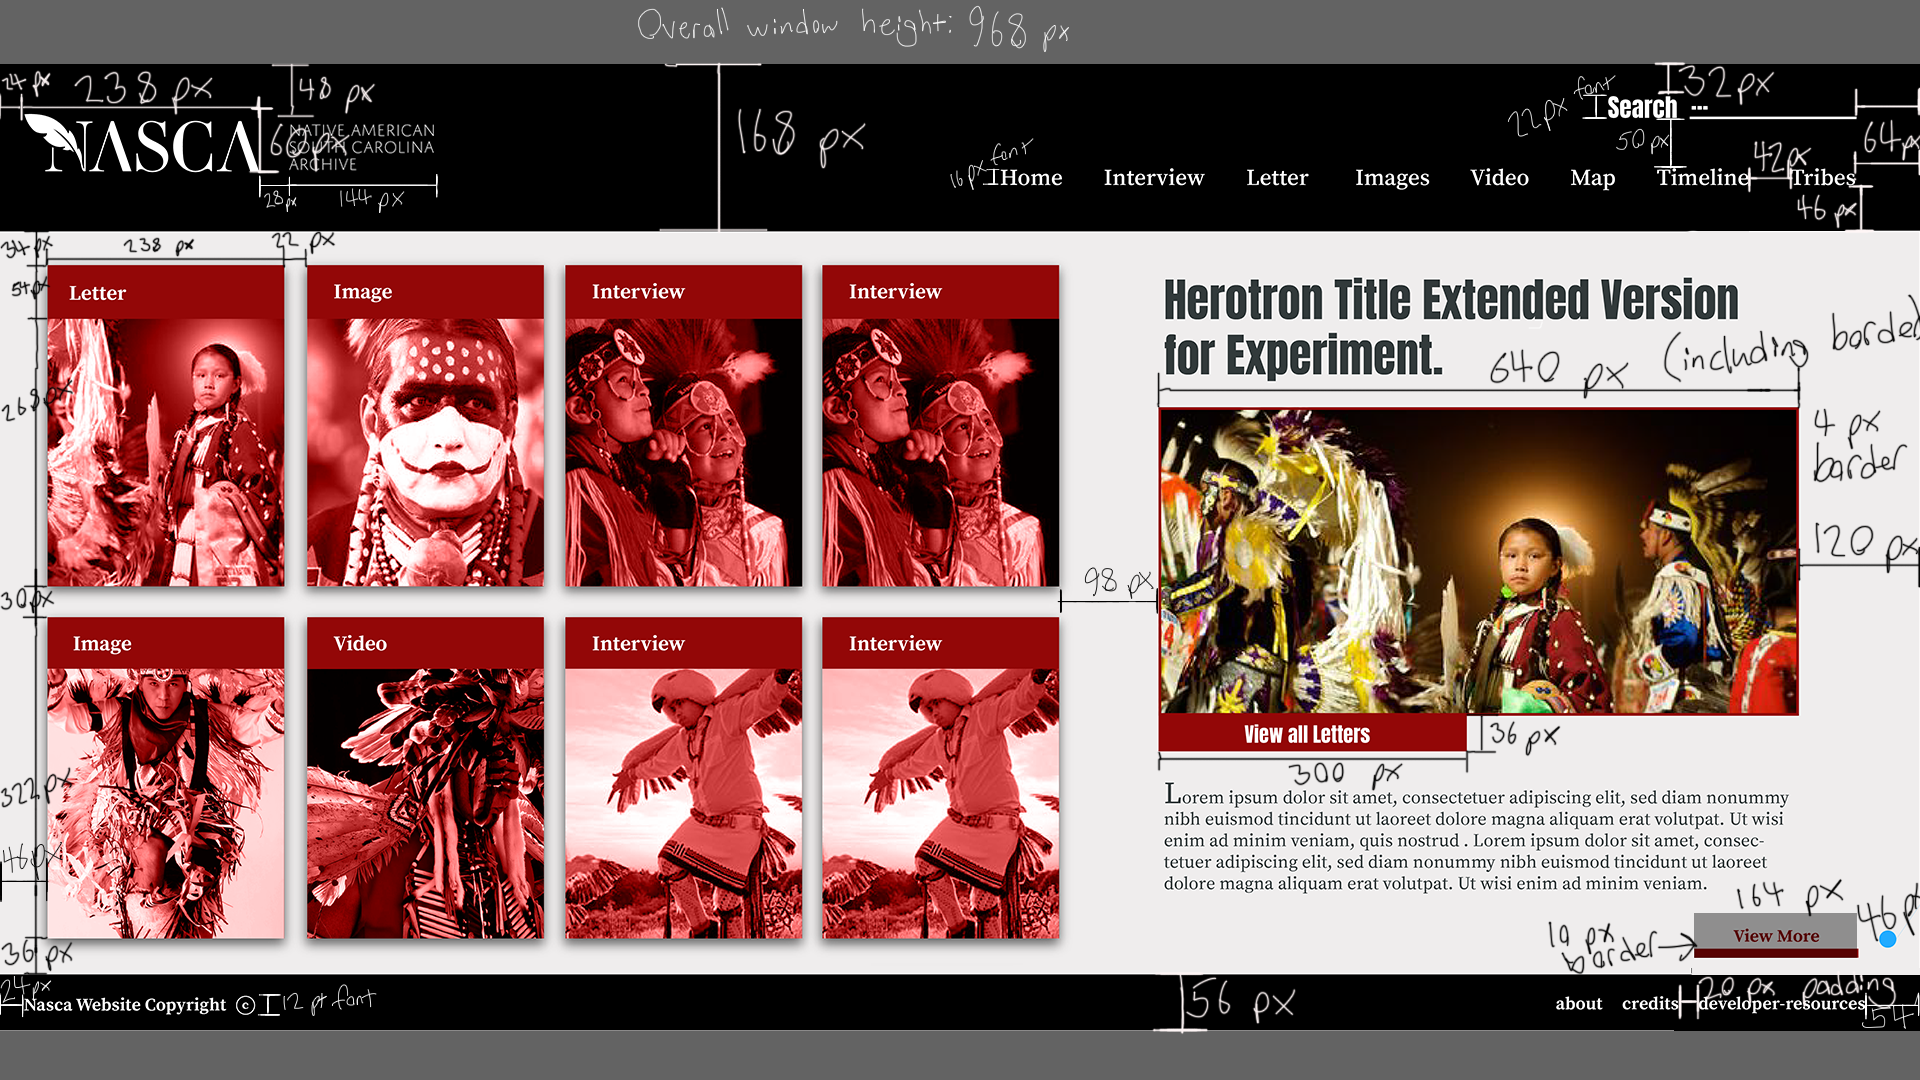
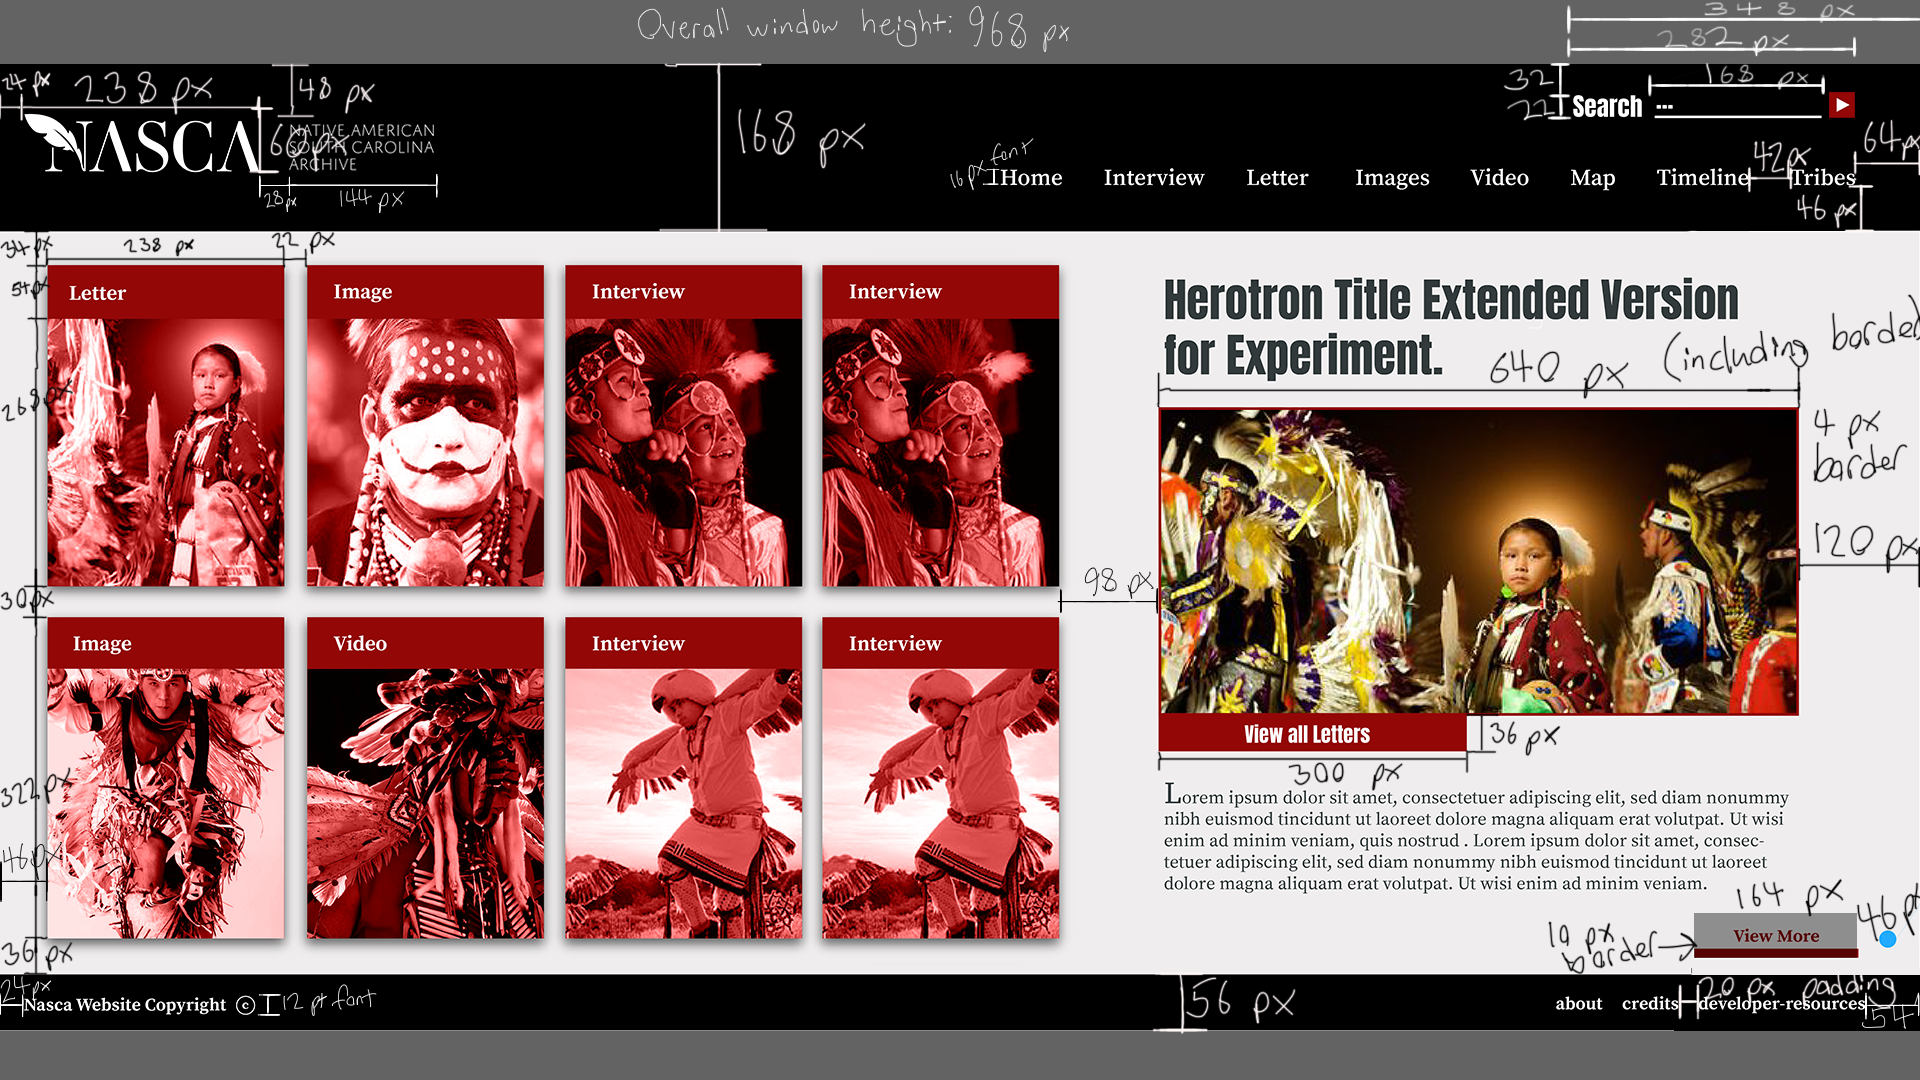
Search bar
Search bar is prettified.

Changed region(s): [[0.7812, 0.0, 1.0, 0.1528]]

diff --git a/NASCA-site/css/index.css b/NASCA-site/css/index.css
@@ -165,13 +165,72 @@ colors{
   position: relative;
 }
 
-#search {
+#search-container {
   position: absolute;
   top: 0;
   right: 0;
-  padding-top: 32px;
-  padding-right: 64px;
-  display: inline-flex;
+  height: 32.143%;
+  min-height: 54px;
+  min-width: 348px;
+  width: 348px;
+}
+
+#search {
+  position: absolute;
+  bottom: 0;
+  left: 0;
+  min-height: 24px;
+  min-width: 282px;
+  height: 42.857%;
+  width: 81.034%;
+}
+
+#search-contents {
+  position: relative;
+  height: 100%;
+  width: 100%;
+  display: flex;
+  padding: 0;
+  margin: 0;
+  flex-wrap: nowrap;
+}
+
+#search-text {
+  font-size: 22px;
+  width: auto;
+  height: 100%;
+  display: inline-block;
+  margin: 0 auto;
+  line-height: 24px;
+}
+
+#search-input-container {
+  height: 100%;
+  min-width: 168px;
+  width: 59.574%;
+  margin: 0 auto;
+  border-bottom: 2px solid white;
+  display: inline-block;
+}
+
+#search-input {
+  height: 90%;
+  width: 100%;
+  background: black;
+  border: none;
+  color: white;
+  font-weight: 600;
+}
+
+#search-go {
+  height: 100%;
+  width: auto;
+  margin: 0 auto;
+  display: inline-block;
+}
+
+#search-go:hover {
+  cursor: pointer;
 }
 
 #nav-bar {
@@ -195,15 +254,18 @@ colors{
 #tabs li {
   text-align: center;
   display: block;
-  font-weight: 100;
   padding-left: 42px;
 }
 
 #tabs li div {
+  font-weight: 300;
+  transition-duration: 0.1s;
 }
 
-#tabs li:hover{
+#tabs li div:hover{
   font-weight: 600;
+  border-bottom: 2px solid white;
+  cursor: pointer;
 }
 
 #tabs li a:hover, #tabs li a:visited, #tabs li a:active, #tabs li a:link {
@@ -219,8 +281,8 @@ colors{
 #page {
   padding-left: 48px;
   padding-right: 48px;
-  padding-top: 32px;
-  padding-bottom: 32px;
+  padding-top: 16px;
+  padding-bottom: 16px;
 }
 
 #footer-container {
@@ -257,7 +319,7 @@ colors{
 }
 
 #footer-links li a {
-  font-size: 12px;
+  font-size: 13px;
   text-align: center;
   text-decoration: none;
   color: #ffffff;
@@ -278,7 +340,7 @@ colors{
 }
 
 #copyright {
-  font-size: 12px;
+  font-size: 13px;
 }
 
 .additional {
@@ -307,4 +369,8 @@ colors{
   width: 100%;
   /*align-items: center;*/
   /*justify-content: center;*/
+}
+
+.row {
+  width: 100%;
 }

diff --git a/NASCA-site/js/index/dynamic_css.js b/NASCA-site/js/index/dynamic_css.js
@@ -30,6 +30,9 @@ function dynamic_css() {
   } else {
     $('#header-left').css('min-width',newWid+2);
   }
+  newWid = $('#search-container').height()*6.2143;
+  $('#search-container').width(newWid);
+  $('#search-text').css({'line-height':$('#search-text').height()+'px'});
   newWid = $('#logo a img').width()*0.605;
   newWid2 = $('#logo-verbose').width();
   if(newWid < newWid2) {
@@ -43,14 +46,16 @@ function dynamic_css() {
   $('#logo').css('width',$('#logo').height()*3.967);
   responsive_padding_horizontal('#page', 'left', 2.5, 48);
   responsive_padding_horizontal('#page', 'right', 2.5, 48);
-  responsive_padding_vertical('#page', 'top', 3.2, 32);
-  responsive_padding_vertical('#page', 'bottom', 3.3, 32);
+  responsive_padding_vertical('#page', 'top', 1.6, 16);
+  responsive_padding_vertical('#page', 'bottom', 1.6, 16);
   $('#page-container').css('min-height',$(window).height()-$('#header-positioner-height-offset').height()-$('#footer-container').height());
   //then set other bits depending on what page it's on
   switch(currentPage) {
     case 'home':
-      responsive_padding_horizontal('#home_right', 'left', 3.75, 72);
-      responsive_padding_horizontal('#home_right', 'right', 3.75, 72);
+      //responsive_padding_horizontal('#home_right', 'left', 3.75, 72);
+      //responsive_padding_horizontal('#home_right', 'right', 3.75, 72);
+      $('.home-card-container').height($('.home-card-container').width()*1.3538);
+      responsive_font('#featured',1.446,14);
       break;
     case 'interviews':
       

diff --git a/NASCA-site/index.php b/NASCA-site/index.php
@@ -55,7 +55,7 @@
     <script type="text/javascript" src="js/index/timeline.js"></script>
     <script type="text/javascript" src="js/index/tribes.js"></script>
   </head>
-  <body>
+  <body class="background-red">
     <?php
       include_once 'html/modal.php';
     ?>
@@ -73,10 +73,16 @@
             </div>
           </div>
           <div id="header-right" class="text-white">
-            <div id="search">
-              <div id="search-text" class="anton">Search</div>
-              <input id="search-input" type="text" />
-              <div id="search-go" onclick="">Go</div>
+            <div id="search-container">
+              <div id="search">
+                <div id="search-contents">
+                  <div id="search-text" class="anton">Search</div>
+                  <div id="search-input-container">
+                    <input id="search-input" type="text" value="..." />
+                  </div>
+                  <img id="search-go" onclick="" src="img/play-go.png" />
+                </div>
+              </div>
             </div>
             <div id="nav-bar">
               <ul id="tabs" class="source-serif">
